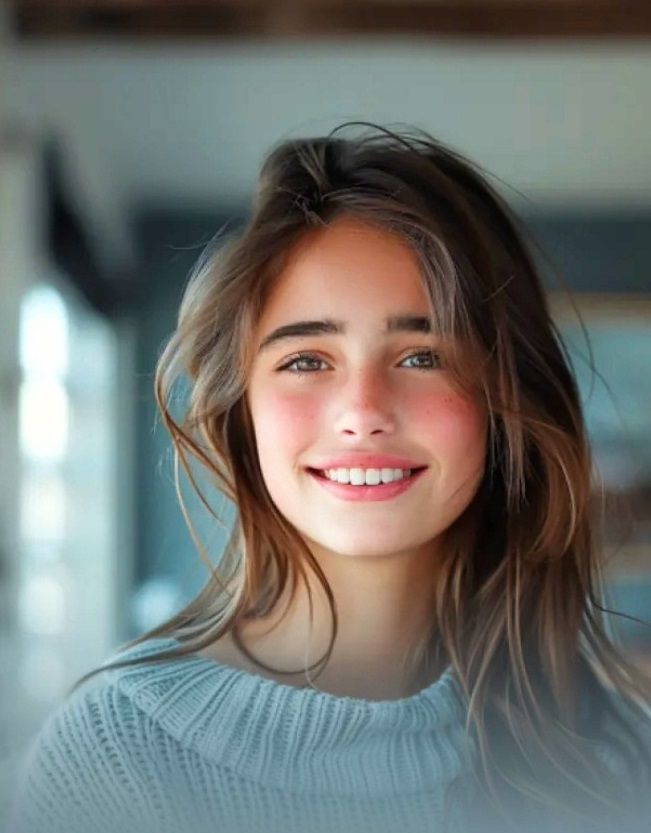
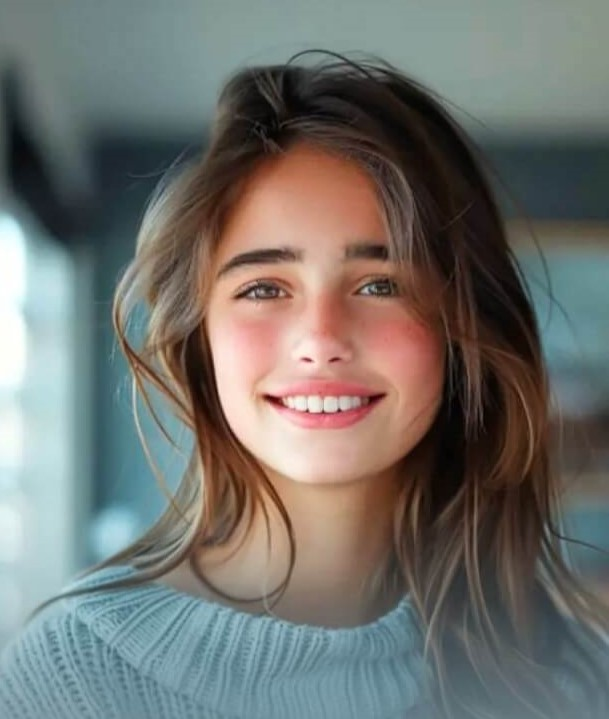
atualização

diff --git a/static/js/funcoes_ordinarias.js b/static/js/funcoes_ordinarias.js
@@ -655,6 +655,12 @@ function removerFormatacaoSelecao() {
   }
 }
 
+// FECHAR TABELA INSPIRAÇÃO ********************************************************************************************
+
+function fecharInspiracao() {
+  document.getElementById("inspiracao-lousa").style.display = "none";
+}
+
 // CHAT ALTERNADO 💬💬 ************************************************************************************************
 function trocarModoChat(modo) {
   const head = document.head;
@@ -697,32 +703,109 @@ function trocarModoChat(modo) {
   head.appendChild(novoJs);
 }
 
-// BOTÃO ALTERNANCIA TAREFA📌/✍ESCRITOR *********************************************************************************
+function atualizarVisualizacao() {
+  const botoesModificaveis = document.querySelectorAll('.botao-modificavel');
+  const botoesFixos = document.querySelectorAll('.botao-fixo-tarefa');
+  const modoPC = document.querySelectorAll('.modo-pc');
+  const modoCelular = document.querySelectorAll('.modo-celular');
+  const botaoCelular = document.getElementById("botaoToggleModoCelular");
+  const botaoModo = document.getElementById("botao-modo-geral");
 
-  let modoTarefaAtivo = false;
+  // Visualização geral
+  if (modoCelularAtivo) {
+    modoPC.forEach(el => el.style.display = 'none');
+    modoCelular.forEach(el => el.style.display = 'flex');
+    botaoCelular.innerText = "💻";
+  } else {
+    modoPC.forEach(el => el.style.display = '');
+    modoCelular.forEach(el => el.style.display = 'none');
+    botaoCelular.innerText = "📲";
+  }
 
-  function trocarModo() {
-    const botoesModificaveis = document.querySelectorAll('.botao-modificavel');
-    const botoesFixos = document.querySelectorAll('.botao-fixo-tarefa');
-    const botaoModo = document.querySelector('#botao-modo-geral');
-
-    if (!modoTarefaAtivo) {
+  // Botões internos (só aplicados se NÃO estiver no modo celular)
+  if (!modoCelularAtivo) {
+    if (modoTarefaAtivo) {
       botoesModificaveis.forEach(btn => btn.style.display = 'none');
       botoesFixos.forEach(btn => btn.style.display = 'inline-block');
       botaoModo.innerHTML = 'Modo Escritor ✍';
     } else {
       botoesModificaveis.forEach(btn => btn.style.display = 'inline-block');
+      botoesFixos.forEach(btn => btn.style.display = 'inline-block');
       botaoModo.innerHTML = 'Modo Tarefa 📌';
     }
+  }
+}
 
-    modoTarefaAtivo = !modoTarefaAtivo;
+
+
+// BOTÃO ALTERNANCIA TAREFA📌/✍ESCRITOR *********************************************************************************
+
+let modoTarefaAtivo = false;
+
+function trocarModo() {
+  const botoesModificaveis = document.querySelectorAll('.botao-modificavel');
+  const botoesFixos = document.querySelectorAll('.botao-fixo-tarefa');
+  const botaoModo = document.querySelector('#botao-modo-geral');
+
+  // 👉 Se estiver no modo celular, não altera visualização
+  if (modoCelularAtivo) {
+    modoTarefaAtivo = !modoTarefaAtivo; // apenas alterna lógica interna
+    botaoModo.innerHTML = modoTarefaAtivo ? 'Modo Escritor ✍' : 'Modo Tarefa 📌';
+    return;
   }
-  
-  window.addEventListener("DOMContentLoaded", () => {
+
   if (!modoTarefaAtivo) {
-    trocarModo();
+    // Entrar no modo tarefa
+    botoesModificaveis.forEach(btn => btn.style.display = 'none');
+    botoesFixos.forEach(btn => btn.style.display = 'inline-block');
+    botaoModo.innerHTML = 'Modo Escritor ✍';
+  } else {
+    // Voltar ao modo completo
+    botoesModificaveis.forEach(btn => btn.style.display = 'inline-block');
+    botaoModo.innerHTML = 'Modo Tarefa 📌';
   }
-});
+
+  modoTarefaAtivo = !modoTarefaAtivo;
+}
+
+// MODO CELULAR *****************************************************************************************************************
+
+let modoCelularAtivo = false;
+
+function alternarModoCelular() {
+  const modoPC = document.querySelectorAll('.modo-pc');
+  const modoCelular = document.querySelectorAll('.modo-celular');
+  const botao = document.getElementById("botaoToggleModoCelular");
+
+  if (!modoCelularAtivo) {
+    modoPC.forEach(el => el.style.display = 'none');
+    modoCelular.forEach(el => el.style.display = 'flex');
+    botao.innerText = "💻";
+    modoCelularAtivo = true;
+  } else {
+    modoPC.forEach(el => {
+      el.style.display = ''; // Restaurar
+      el.querySelectorAll('.toolbar-button').forEach(btn => btn.style.display = 'inline-block');
+    });
+    modoCelular.forEach(el => el.style.display = 'none');
+    botao.innerText = "📲";
+    modoCelularAtivo = false;
+  }
+}
+
+function ajustarClassesModoCelular(forcarComo = "modificavel") {
+  const botoesCelular = document.querySelectorAll('.modo-celular .toolbar-button');
+
+  botoesCelular.forEach(botao => {
+    botao.classList.remove("botao-fixo-tarefa", "botao-modificavel");
+
+    if (forcarComo === "fixo") {
+      botao.classList.add("botao-fixo-tarefa");
+    } else {
+      botao.classList.add("botao-modificavel");
+    }
+  });
+}
 
 document.getElementById("editor").addEventListener("keydown", function (event) {
   // Se tecla for Enter e Shift estiver pressionado, ativa gerarTarefa
@@ -731,3 +814,4 @@ document.getElementById("editor").addEventListener("keydown", function (event) {
     gerarTarefa();
   }
 });
+

diff --git a/templates/index.html b/templates/index.html
@@ -40,6 +40,18 @@
   font-size: 0.95rem;
   line-height: 1.5;
 ">
+  <button onclick="fecharInspiracao()" style="
+    position: absolute;
+    top: 6px;
+    right: 8px;
+    background: none;
+    border: none;
+    font-size: 16px;
+    color: #888;
+    cursor: pointer;
+    transition: color 0.2s ease;
+  " title="Fechar">✖</button>
+  
   <strong>🌺 Inspiração da Flávia:</strong>
   
   <div id="inspiracao-texto" style="
@@ -50,8 +62,12 @@
   "></div>
 </div>
 
-	
+<button id="botaoToggleModoCelular" onclick="alternarModoCelular()" class="botao-modo-celular">📲</button>
+
+
+<div class="modo-pc">	
 <!-- Botões principais -->
+
 <div id="botoesFixosEsquerda">
   <button class="toolbar-button" onclick="loadText()" title="Carregar Texto">📂</button>
   <button id="saveButton" class="toolbar-button" onclick="saveText()" title="Salvar Texto">💾</button>
@@ -111,10 +127,21 @@
 
 <!-- Botões de modo -->
 <div id="modo-chat-selector">
+  <button class="botao-modificavel" onclick="trocarModoChat('romantico')" style="background: none; border: none; font-size: 1.2em; cursor: pointer;">💖</button>
+  <button class="botao-modificavel" onclick="trocarModoChat('edtorial')" style="background: none; border: none; font-size: 1.2em; cursor: pointer;">📘</button>
   <button id="botao-modo-geral" onclick="trocarModo()" style="background: none; border: none; font-size: 1.0em; cursor: pointer;">Modo Tarefa 📌</button>
-  <button onclick="trocarModoChat('romantico')" style="background: none; border: none; font-size: 1.2em; cursor: pointer;">💖</button>
-  <button onclick="trocarModoChat('edtorial')" style="background: none; border: none; font-size: 1.2em; cursor: pointer;">📘</button>
-</div>	
+
+  </div>
+</div>
+<div class="modo-celular" style="display: none;">
+  <button id="saveButton" class="toolbar-button" onclick="saveText()" title="Salvar Texto">💾</button>
+  <button class="toolbar-button botao-fixo-tarefa botao-turquesa" onclick="corrigirTexto()" title="Corrigir Texto">✨✅</button>
+  <button class="toolbar-button botao-modificavel" onclick="numberSentencesBy3()" title="Numerar por blocos de 3 frases">#3</button>
+  <button class="toolbar-button botao-modificavel botao-marcas" onclick="analisarDicasIA()" title="Análise de Fluidez">🌺</button>
+  <button class="toolbar-button botao-modificavel botao-marcas" onclick="analyzeFluidezIA()" title="Análise de Fluidez">🚨</button>  
+  <button class="toolbar-button botao-modificavel botao-especial" onclick="gerarRascunho()" title="Gerar Rascunho">📜...</button> 
+  <button id="botao-pedido" class="toolbar-button botao-fixo-tarefa botao-especial" onclick="gerarTarefa()" title="Shift+Enter">📘 pedido 3.5</button>
+  </div>  
 		
 			</div>
 

diff --git a/static/css/chats/chat_romantico.css b/static/css/chats/chat_romantico.css
@@ -65,19 +65,23 @@
   flex-grow: 1;
   overflow-y: auto;
   padding: 16px;
-  background: rgba(30, 30, 30, 0.0);
-  backdrop-filter: blur(0px);
+  background: none; /* ou remova a linha */
+  backdrop-filter: none; /* remova ou anule se estiver atrapalhando */
 }
 
-#chat-log p { /* FUNDO DO LOG DE MENSAGENS */
+#chat-log p, #chat-log .mensagem {
   margin-bottom: 12px;
-  padding: 10px 14px;
-  border-radius: 12px;
-  background: rgba(155, 105, 105, 0.6); /* COR FUNDO DO LOG DE MENSAGENS */
-  font-size: 14px;
-  line-height: 1.2;
-  color: #fff; /* TEXTO DA LETRA NA RESPOSTA */
-  font-weight: 640; /* 🆕 texto geral um pouco mais forte */
+  padding: 12px 16px;
+  border-radius: 14px;
+  background-color: rgba(155, 120, 120, 0.4); /* ESCURO com transparência real */
+  color: #F5F5F5;
+  font-weight: 500;
+  font-size: 14.5px;
+  line-height: 1.4;
+  backdrop-filter: blur(0px);
+  -webkit-backdrop-filter: blur(0px);
+  border: 1px solid rgba(155, 125, 125, 0.08);
+  box-shadow: 0 2px 6px rgba(0, 0, 0, 0.2);
 }
 
 #chat-log strong { /* NOME ANTES DA RESPOSTA NO LOG DE MENSAGENS */
@@ -104,6 +108,12 @@
   font-size: 14px;
   resize: none;
   line-height: 1.4;
+}
+
+#chat-input:focus {
+  background: rgba(255, 255, 255, 0.85);  /* Garante o mesmo fundo */
+  color: #333;                            /* Garante a mesma cor de texto */
+  outline: none;                          /* Remove contorno azul padrão do navegador */
 }
 
 #chat-input::placeholder {

diff --git a/static/css/estilo1.css b/static/css/estilo1.css
@@ -328,6 +328,38 @@ h1 {
     background-color: #e60000;
 }
 
+/* MODO CELULAR ********************* MODO CELULAR ***************************** MODO CELULAR ******************************* */
+
+.botao-modo-celular {
+	position: fixed;
+    bottom: 10px;
+    left: 100px;
+    color: black;
+    border: none;
+    padding: 6px 16px;
+    border-radius: 6px;
+    cursor: pointer;
+    font-weight: bold;
+    box-shadow: 0 2px 4px rgba(0,0,0,0.2);
+    transition: background-color 0.2s ease;
+
+.botao-modo-celular:hover {
+    background-color: #e60000;
+}
+
+.botao-modo-tarefa {
+  position: fixed;
+  top: 10px;
+  right: 60px;
+  background: none;
+  border: none;
+  font-size: 1em;
+  cursor: pointer;
+  z-index: 999;
+}
+
+
+
 /* 🔍  BOTÃO BUSCA 🔍  ******************************** 🔍  BOTÃO BUSCA 🔍 ************************************************ */
 #busca-local {
   display: none;

diff --git a/static/js/chats/chat_romantico.js b/static/js/chats/chat_romantico.js
@@ -78,8 +78,15 @@ document.getElementById("chat-panel")?.addEventListener("click", function (event
   
 const fotosFlavia = [
   "static/img/flavia.jpg",
-  "static/img/surpresa.jpg",
-  "static/img/alegre.jpg"
+  "static/img/flavia1.jpg",
+  "static/img/flavia2.jpg",
+  "static/img/flavia3.jpg",
+  "static/img/flavia4.jpg",
+  "static/img/flavia5.jpg",
+  "static/img/flavia6.jpg",
+  "static/img/flavia7.jpg",
+  "static/img/flavia8.jpg",
+  "static/img/flavia9.jpg"
 ];
 
 let indexAtual = 0;
@@ -111,7 +118,7 @@ function trocarFotoFlavia() {
 }
 
 // Troca a cada 3 minutos (180.000 ms)
-setInterval(trocarFotoFlavia, 10000);
+setInterval(trocarFotoFlavia, 30000);
 
 // ✨ Autoexpandir altura do campo symbolInput enquanto digita
 window.addEventListener('DOMContentLoaded', () => {

diff --git a/static/css/chats/chat_escuro.css b/static/css/chats/chat_escuro.css
@@ -87,7 +87,7 @@
 
 #chat-log p {
   margin-bottom: 10px;
-  background: none !important;       /* 🔥 remove o fundo marrom */
+  background: rgba(255, 255, 255, 0.0);       /* 🔥 remove o fundo marrom ou > background: none !important; > para voltar ao efeito vidro no romantico */
   color: #e0e0e0;                    /* cor clara padrão */
   font-weight: 400;                  /* leveza */
 }

diff --git a/app.py b/app.py
@@ -419,7 +419,7 @@ Exemplo Prático:
 🚨> {{🤫*}} / Mostre mais, fale menos... 📌 Dica: Em vez de dizer “Ele estava triste”, mostre com ação: “Ele dobrou o bilhete com dedos trêmulos e desviou o olhar.” n° 7
 
 
-Use no máximo **uma marcação por bloco**.  
+Corrija no máximo **1/3 de todos os blocos*.  
 **Apenas blocos com sugestão devem aparecer na resposta.**  
 
 Texto:
@@ -598,7 +598,7 @@ Reescreva o texto abaixo aplicando as sugestões de melhoria indicadas em cada b
 2. **Remover a numeração dos blocos** (ex: "1", "2"...);
 3. Unificar o texto em parágrafos contínuos e coesos;
 4. Preservar o estilo original do autor;
-5. Marcar com _italico_ todas as palavras ou trechos que foram modificados;
+5. Marcar com **_negrito&italico_** todas as palavras ou trechos que foram modificados;
 6. Não adicione explicações — apenas devolva o novo texto já melhorado.
 
 ---
@@ -683,7 +683,7 @@ def chat_flavia():
         resposta = openai_client.chat.completions.create(
             model='gpt-4o',
             messages=[
-                {"role": "system", "content": "Você é Flávia, uma namorada virtual carinhosa, íntima, afetuosa e criativa. Sempre reage em 3ª pessoa entre colchetes em _italico_ antes de falar com fonte normal."}
+                {"role": "system", "content": "Você é Flávia, uma namorada virtual carinhosa, íntima, afetuosa e criativa. Sempre reage em 3ª pessoa entre colchetes em _italico_ antes de falar com fonte normal. Use emojis apropriados. "}
             ] + chat_history,  # Histório completo da conversa
             temperature=0.85,
             max_tokens=750,
